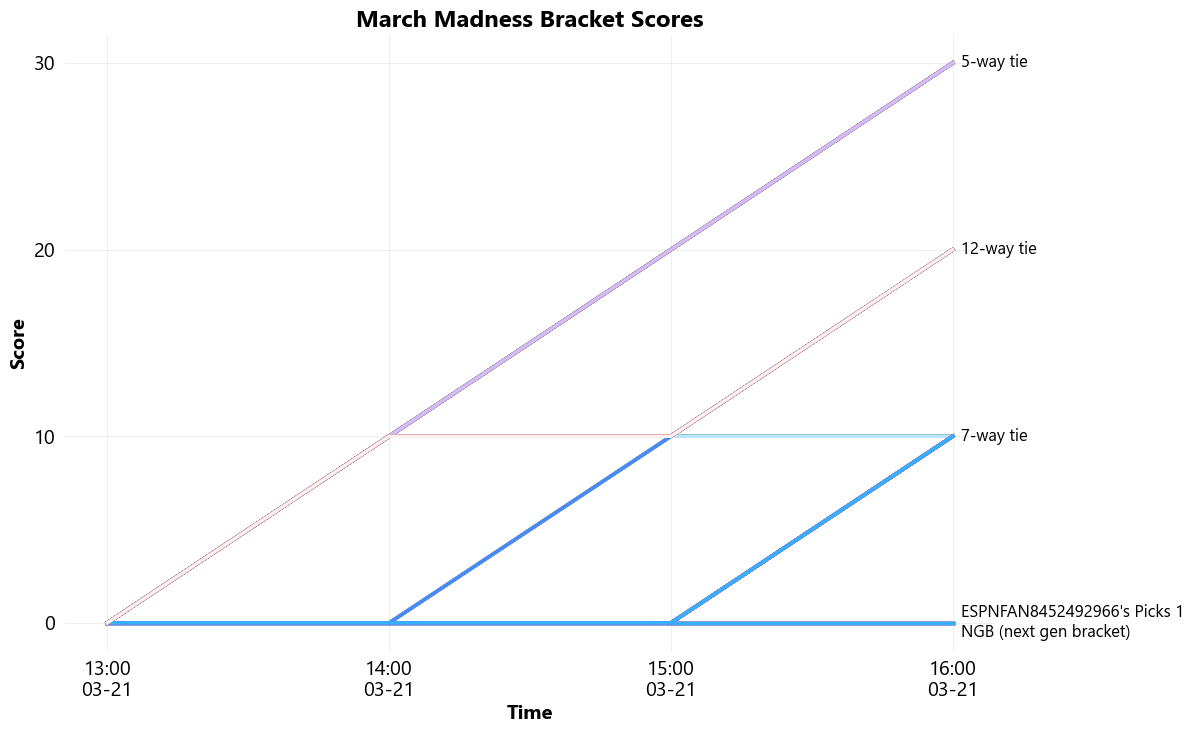
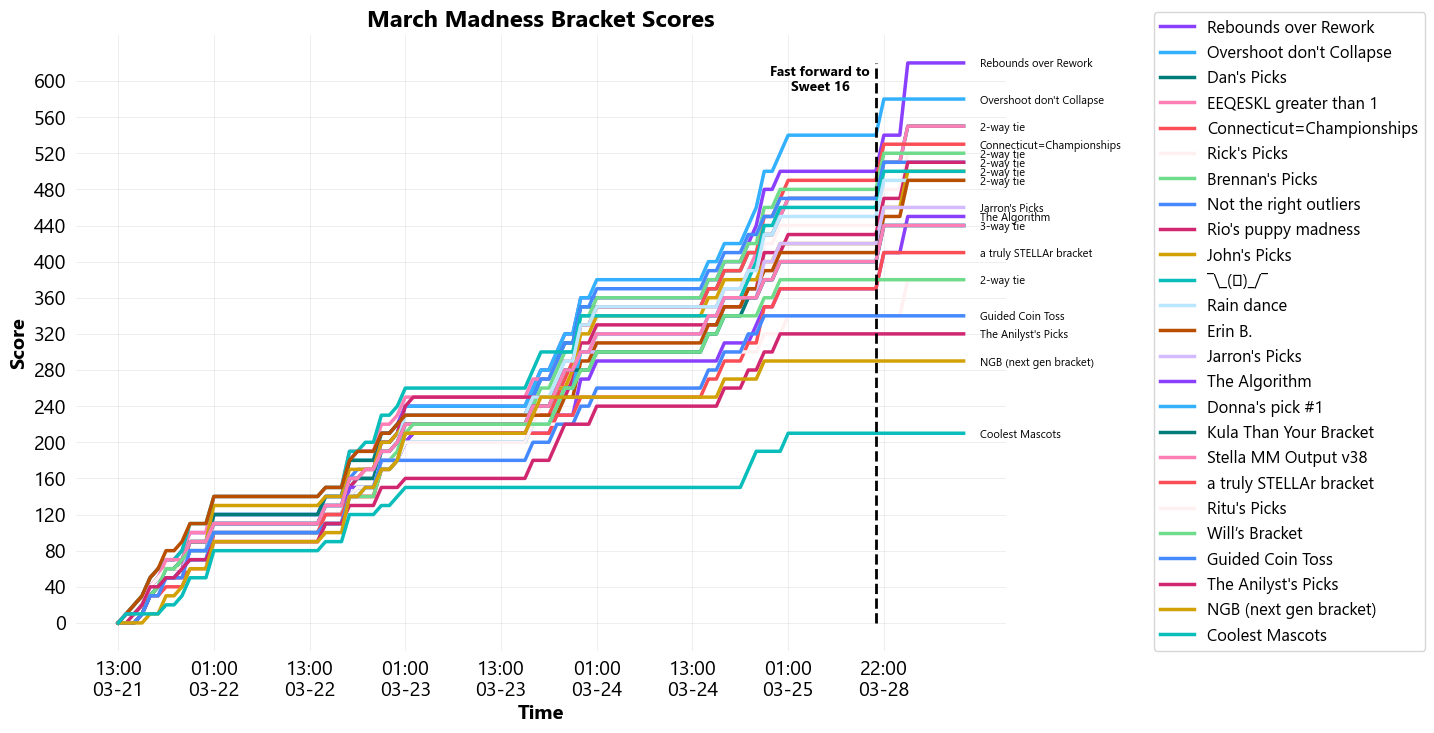
add visualization changes

diff --git a/visualize.py b/visualize.py
@@ -1,8 +1,19 @@
 import matplotlib.pyplot as plt
 import pandas as pd
+import datetime as dt
 import os
 import matplotlib.transforms as mtransforms
+from matplotlib.axes import Axes
 
+EXCLUDED_USERS = [
+    "ESPNFAN8452492966"
+]
+
+NAME_MAPPER = {
+    "ESPNFAN4288357771's Picks 1": "John's Picks",
+    "ESPNFAN8630827724's Picks 1": "Jarron's Picks",
+    "ESPNFAN7873704290's Picks 1": "Ritu's Picks",
+}
 
 # Get Scores Data
 scores_dir = os.listdir("outputs/")
@@ -13,31 +24,59 @@ for score in scores_dir:
         index_col=["entry_user", "time"],
         parse_dates=["time"],
     )
+
+    df = df.loc[~df.index.get_level_values("entry_user").isin(EXCLUDED_USERS)]
+
     scores.append(df)
 scores = pd.concat(scores).sort_index()
-
-# Create the Plot
-fig, ax = plt.subplots(1, 1, figsize=(12, 8))
-
-# Plot each line separately
-for i, entry_user in enumerate(scores.index.get_level_values("entry_user")):
-    ax.plot(scores.loc[entry_user].index, scores.current_points.loc[entry_user])
-
-# Create Labels
-current_scores = scores.groupby(
-    scores.index.get_level_values("entry_user")
-).current_points.max()
-users_by_score = (
-    current_scores.reset_index().groupby("current_points").agg(list).entry_user
+scores.loc[:, "entry_name"] = (
+    scores.entry_name
+    .map(NAME_MAPPER)
+    .where(scores.entry_name.isin(NAME_MAPPER), scores.entry_name)
 )
 
+desired_time_range = pd.date_range(
+    scores.index.get_level_values("time").min(),
+    scores.index.get_level_values("time").max(),
+    freq="H"
+)
+
+desired_index = pd.MultiIndex.from_product([
+    scores.index.get_level_values("entry_user").unique(),
+    desired_time_range
+], names=["entry_user", "time"])
+
+scores = (
+    scores.align(pd.DataFrame([], index=desired_index))[0]
+    .groupby(level=["entry_user"])
+    .ffill()
+)
+
+# TODO: Customize this
+no_games_mask = (
+    scores.index.get_level_values("time").to_series().ge(dt.datetime(2024, 3, 25, 12))
+    & scores.index.get_level_values("time").to_series().le(dt.datetime(2024, 3, 28, 20))
+)
+
+scores = scores.loc[~no_games_mask.values]
+
+# Create the Plot
+ax: Axes
+fig, ax = plt.subplots(1, 1, figsize=(12, 8))
+
+# Create Labels
+current_scores = scores.groupby(scores.index.get_level_values("entry_user")).current_points.max()
+users_by_score = current_scores.reset_index().groupby("current_points").agg(list).entry_user
+
+# Sort by Score
+scores = scores.loc[users_by_score.apply(lambda lst: lst[::-1]).explode()[::-1]]
 
 def get_label(users):
     if len(users) == 1:
-        return users[0], mtransforms.ScaledTranslation(
+        return scores.loc[users[0], "entry_name"].iloc[0], mtransforms.ScaledTranslation(
             1 / 12, -1 / 24, fig.dpi_scale_trans
         )
-    elif len(users) > 3:
+    elif len(users) > 1:
         return f"{len(users)}-way tie", mtransforms.ScaledTranslation(
             1 / 12, -1 / 24, fig.dpi_scale_trans
         )
@@ -51,14 +90,19 @@ def get_label(users):
 
 labels = users_by_score.apply(get_label)
 
+# Plot each line separately
+for i, entry_user in enumerate(scores.index.get_level_values("entry_user").unique()):
+    ax.plot(range(scores.loc[entry_user].index.size), scores.current_points.loc[entry_user], label=scores.entry_name.loc[entry_user].iloc[-1])
+
 # Add the labels
 for value, (label, transform) in labels.items():
     ax.text(
-        scores.index.get_level_values("time").max(),
+        scores.index.get_level_values("time").nunique(),
         value,
         label,
         color="black",
         transform=ax.transData + transform,
+        fontsize=8,
     )
 
 # Add Text
@@ -68,11 +112,29 @@ ax.set_ylabel("Score", fontweight="bold")
 
 # Change Ticks
 all_times = scores.index.get_level_values("time").unique()
+
+jump_date = dt.datetime(2024, 3, 28, 20)
+vline_loc = (all_times >= jump_date).argmax()
+max_points = scores.current_points.max(0)
+ax.vlines(vline_loc, 0, max_points, colors="k", linestyles="--", lw=2)
+ax.text(
+    vline_loc - 7,
+    0.95 * max_points,
+    "Fast forward to\nSweet 16",
+    color="black",
+    fontweight="bold",
+    fontsize=10,
+    ha="center",
+)
+
+# TODO: Customize this
+rng = range(0, len(all_times), 12)
+all_times = all_times[rng]
 xticklabels = all_times.map(lambda date: date.strftime("%H:00\n%m-%d"))
 
-ax.set_xticks(all_times)
+ax.set_xticks(rng)
 ax.set_xticklabels(xticklabels)
-ax.set_yticks(range(0, scores.current_points.max() + 1, 10))
+ax.set_yticks(range(0, int(scores.current_points.max()) + 1, 40))
 
 ax.xaxis.tick_bottom()
 ax.yaxis.tick_left()
@@ -88,6 +150,8 @@ ax.tick_params(
     right=False,
     labelleft=True,
 )
+
+ax.legend(bbox_to_anchor=(1.15, 1.05))
 
 # Show/Save the plot
 fig.savefig("mm.png", bbox_inches='tight')
